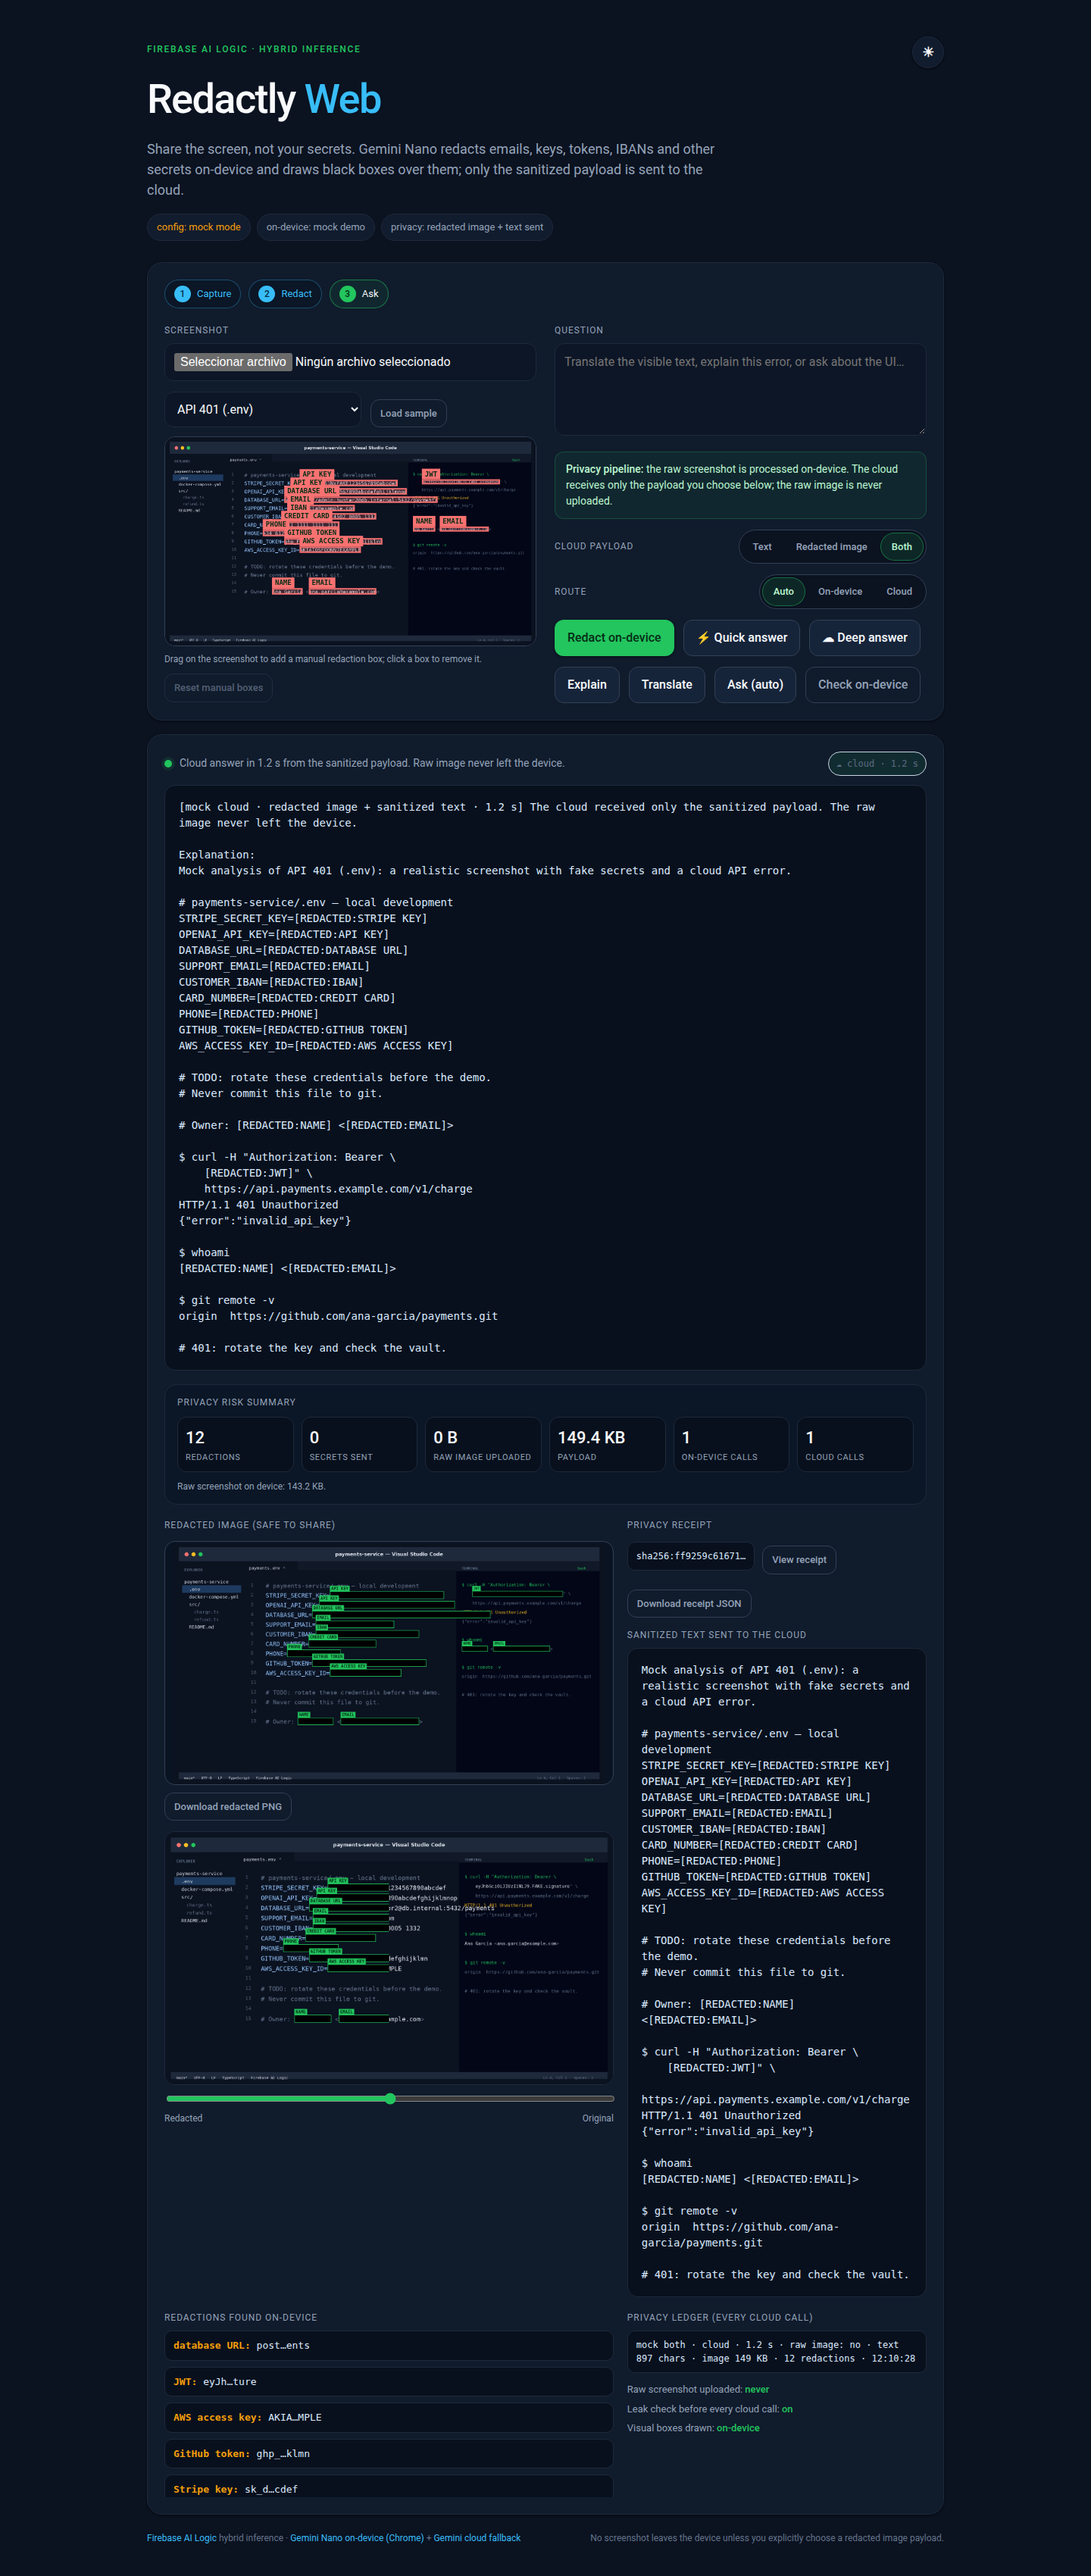
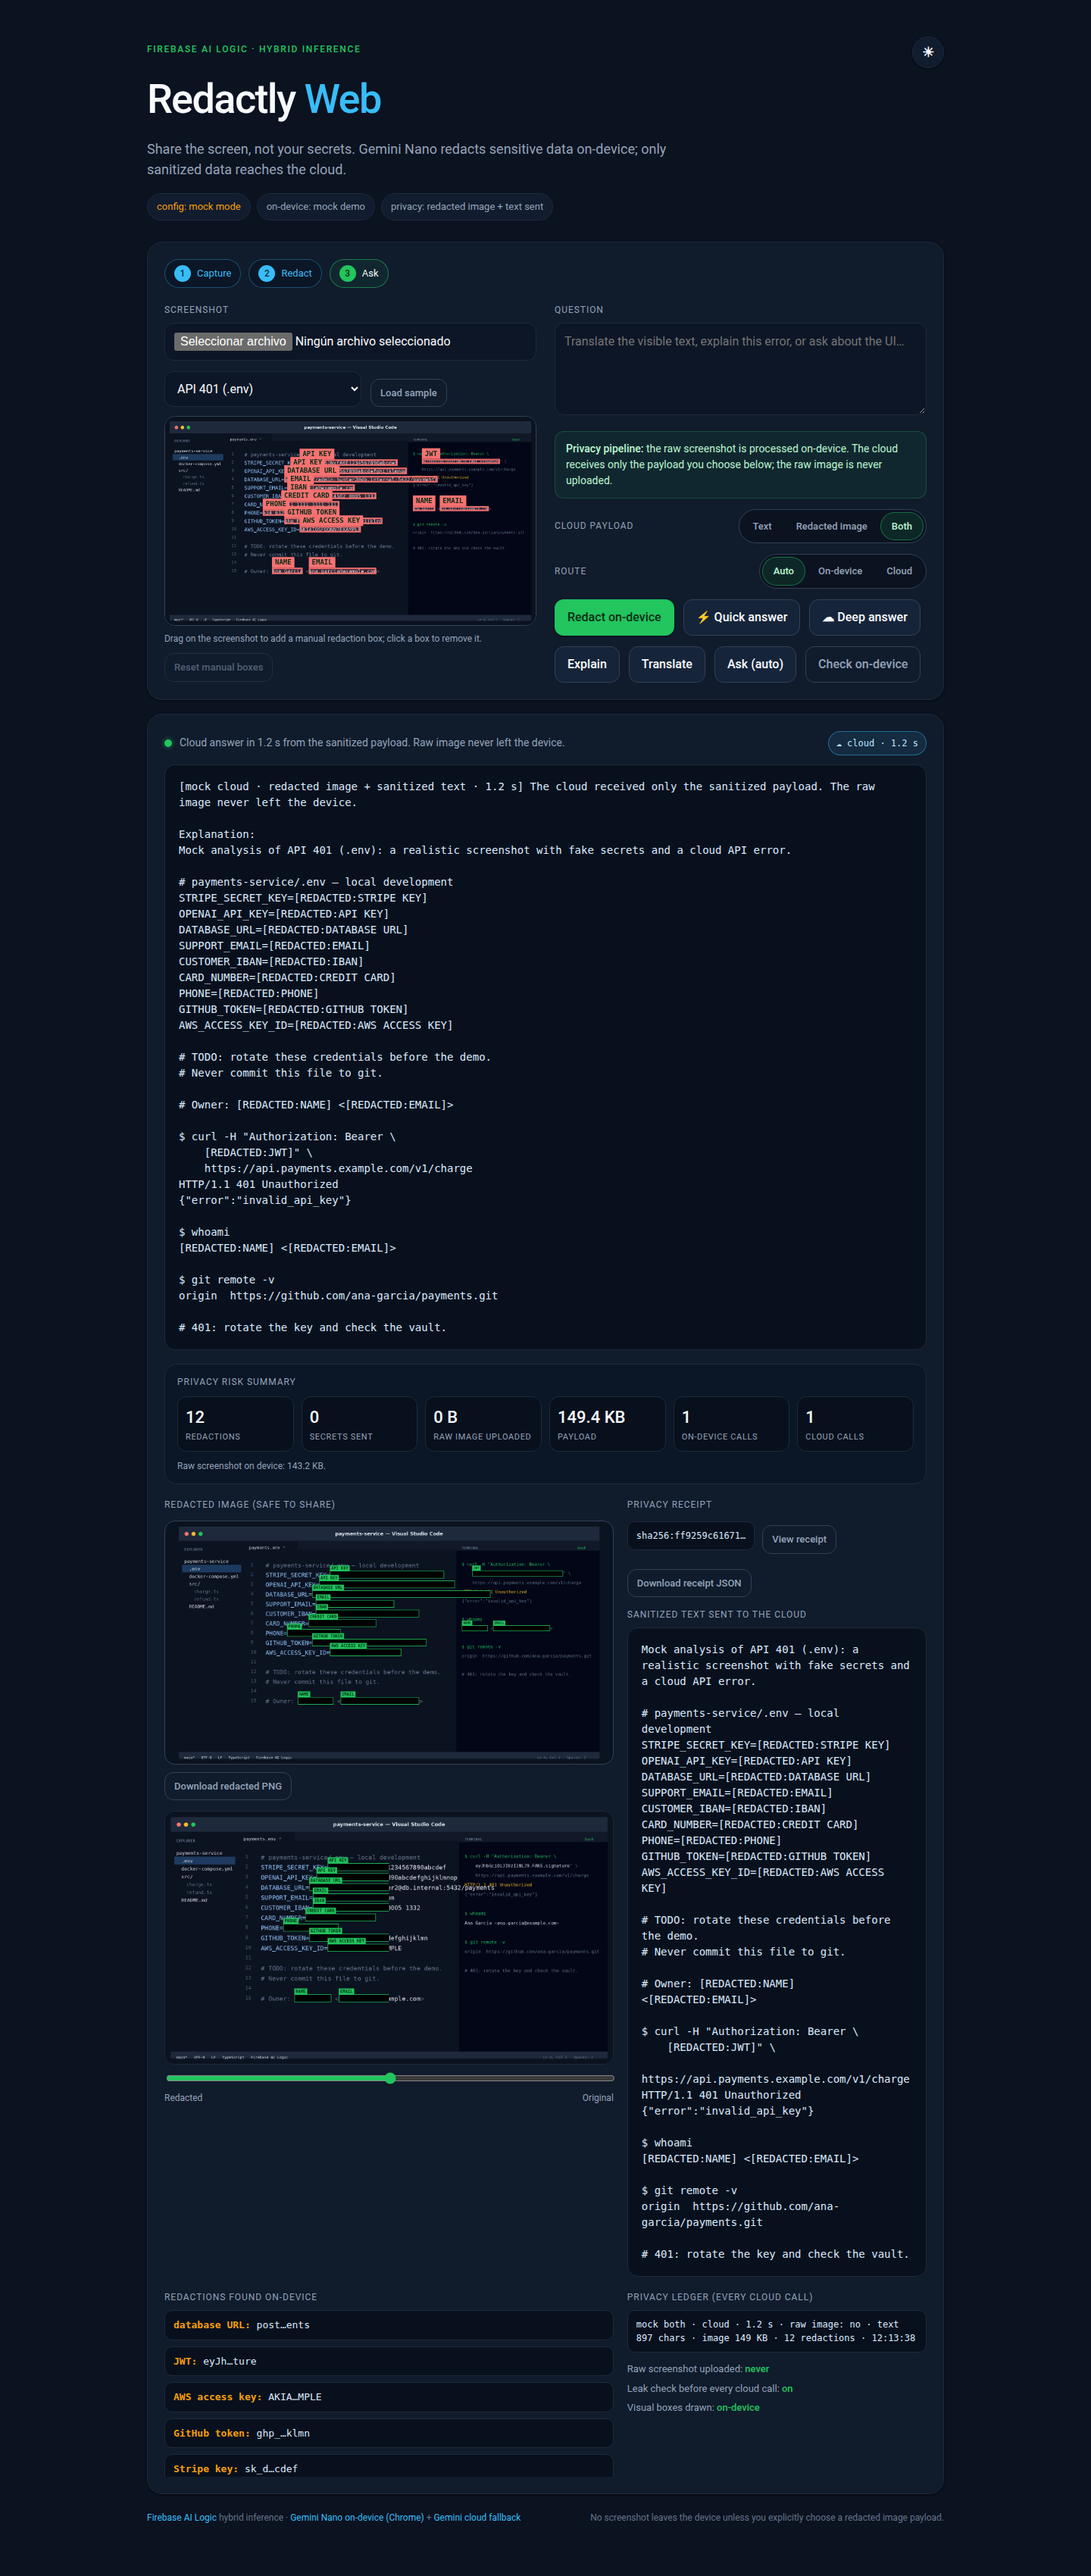
Shorten the hero subtitle

diff --git a/index.html b/index.html
@@ -24,7 +24,7 @@
         <button id="themeToggle" class="icon-btn theme-toggle" type="button" aria-label="Switch to light theme" aria-pressed="false" title="Switch to light theme">☀</button>
       </div>
       <h1>Redactly <span>Web</span></h1>
-      <p class="sub">Share the screen, not your secrets. Gemini Nano redacts emails, keys, tokens, IBANs and other secrets on-device and draws black boxes over them; only the sanitized payload is sent to the cloud.</p>
+      <p class="sub">Share the screen, not your secrets. Gemini Nano redacts sensitive data on-device; only sanitized data reaches the cloud.</p>
       <div class="badges">
         <span class="badge" id="configBadge" data-tip="Firebase AI Logic + App Check when firebase-config.js is present">checking config…</span>
         <span class="badge" id="deviceBadge" data-tip="Gemini Nano availability in Chrome 139+">on-device: unknown</span>
